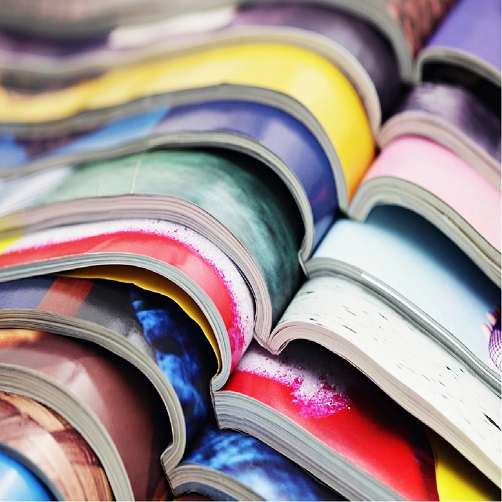
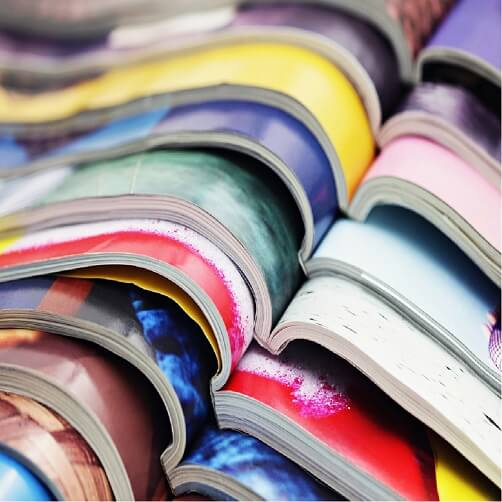
resize img

diff --git a/style.min.css b/style.min.css
@@ -1,1 +1,1 @@
-.d-bloc .navbar-toggle .icon-bar,body{background:#fff}.nav-center .navbar-brand img,body{margin:0}.nav-invert .navbar .nav,.nav>li{float:left}.scrollToTop,button{transition:.3s ease-in-out}body{padding:0;overflow-x:hidden;-webkit-font-smoothing:antialiased;-moz-osx-font-smoothing:grayscale}button{border:none;font-size:30px;background-color:#fff;float:right;margin-right:15px;margin-top:3px;outline:0!important}a:hover{text-decoration:none;cursor:pointer}#page-loading-blocs-notifaction{position:fixed;top:0;bottom:0;width:100%;z-index:100000;background:url("img/pageload-spinner.gif") center center no-repeat #fff}.bloc{width:100%;clear:both;background:50% 50%/cover no-repeat;padding:0 50px;-webkit-background-size:cover;-moz-background-size:cover;-o-background-size:cover;position:relative}.bloc-lg{padding:100px 50px}.bloc-md{padding:50px}.bloc-sm{padding:20px 50px}.bg-b-edge,.bg-bl-edge,.bg-br-edge,.bg-center,.bg-l-edge,.bg-r-edge,.bg-repeat,.bg-t-edge,.bg-tl-edge,.bg-tr-edge{-webkit-background-size:auto!important;-moz-background-size:auto!important;-o-background-size:auto!important;background-size:auto!important}.bg-repeat,.nav>li a:focus,.nav>li a:hover{background:0 0}.bg-t-edge{background:top no-repeat}.bloc-bg-texture::before{content:"";background-size:2px 2px;position:absolute;top:0;bottom:0;left:0;right:0}.texture-paper::before{background:url("img/texture-paper.webp") 0 0/280px 280px}.nav>li>.dropdown a,.navbar-toggle:hover{background:0 0!important}.b-parallax{background-attachment:fixed}.d-bloc{color:rgba(255,255,255,.7)}.d-bloc button:hover{color:rgba(255,255,255,.9)}.d-bloc .icon-round,.d-bloc .icon-rounded,.d-bloc .icon-semi-rounded-a,.d-bloc .icon-semi-rounded-b,.d-bloc .icon-square{border-color:rgba(255,255,255,.9)}.d-bloc .divider-h span{border-color:rgba(255,255,255,.2)}.d-bloc .a-btn,.d-bloc .navbar a,.d-bloc .navbar-brand,.d-bloc a .icon-lg,.d-bloc a .icon-md,.d-bloc a .icon-sm,.d-bloc a .icon-xl,.d-bloc h1 a,.d-bloc h2 a,.d-bloc h3 a,.d-bloc h4 a,.d-bloc h5 a,.d-bloc h6 a,.d-bloc p a{color:rgba(255,255,255,.6)}.d-bloc .a-btn:hover,.d-bloc .navbar a:hover,.d-bloc .navbar-brand:hover,.d-bloc a:hover .icon-lg,.d-bloc a:hover .icon-md,.d-bloc a:hover .icon-sm,.d-bloc a:hover .icon-xl,.d-bloc h1 a:hover,.d-bloc h2 a:hover,.d-bloc h3 a:hover,.d-bloc h4 a:hover,.d-bloc h5 a:hover,.d-bloc h6 a:hover,.d-bloc p a:hover{color:#fff}.d-bloc .btn-wire,.d-bloc .btn-wire:hover{color:#fff;border-color:#fff}.d-bloc .panel icon,.l-bloc .icon-round,.l-bloc .icon-rounded,.l-bloc .icon-semi-rounded-a,.l-bloc .icon-semi-rounded-b,.l-bloc .icon-square{border-color:rgba(0,0,0,.7)}.d-bloc .panel,.l-bloc{color:rgba(0,0,0,.5)}.d-bloc .panel button:hover,.l-bloc button:hover{color:rgba(0,0,0,.7)}.d-bloc .panel .divider-h span,.l-bloc .divider-h span{border-color:rgba(0,0,0,.1)}.d-bloc .panel .a-btn,.l-bloc .a-btn,.l-bloc .navbar a,.l-bloc .navbar-brand,.l-bloc .navbar-toggle .icon-bar,.l-bloc a .icon-lg,.l-bloc a .icon-md,.l-bloc a .icon-sm,.l-bloc a .icon-xl,.l-bloc h1 a,.l-bloc h2 a,.l-bloc h3 a,.l-bloc h4 a,.l-bloc h5 a,.l-bloc h6 a,.l-bloc p a{color:rgba(0,0,0,.6)}.d-bloc .panel .a-btn:hover,.l-bloc .a-btn:hover,.l-bloc .navbar a:hover,.l-bloc .navbar-brand:hover,.l-bloc a:hover .icon-lg,.l-bloc a:hover .icon-md,.l-bloc a:hover .icon-sm,.l-bloc a:hover .icon-xl,.l-bloc h1 a:hover,.l-bloc h2 a:hover,.l-bloc h3 a:hover,.l-bloc h4 a:hover,.l-bloc h5 a:hover,.l-bloc h6 a:hover,.l-bloc p a:hover{color:#000}.d-bloc .panel .btn-wire,.d-bloc .panel .btn-wire:hover,.l-bloc .btn-wire,.l-bloc .btn-wire:hover{color:rgba(0,0,0,.7);border-color:rgba(0,0,0,.3)}.voffset{margin-top:30px}.voffset-lg{margin-top:80px}.row-no-gutters{margin-right:0;margin-left:0}.row.row-no-gutters>[class*=" col-"],.row.row-no-gutters>[class^=col-]{padding-right:0;padding-left:0}#bloc-1-hero h1{font-size:32px}.navbar{margin-bottom:0;z-index:1}.navbar-brand{height:auto;padding:3px 15px;font-size:25px;font-weight:600;line-height:44px}.navbar-brand img{max-height:200px;margin:0 5px 0 0;display:inline}.navbar-brand img[src$=svg]{min-width:100px}.navbar .nav{padding-top:2px;margin-right:-16px;float:right;z-index:1}.nav>li{margin-top:4px;font-size:16px}.navbar-nav .open .dropdown-menu>li>a{text-align:inherit}.navbar-toggle{margin:10px 10px 0 0;border:0}.mg-lg,.mg-md{margin-top:10px}.navbar-toggle .icon-bar{background-color:rgba(0,0,0,.5);width:26px}.nav-invert .navbar-brand,.nav-invert .navbar-header{float:right;position:relative;z-index:2}@media (min-width:768px){.site-navigation{position:absolute;top:50%;right:20px;transform:translate(0,-50%);-webkit-transform:translateY(-50%)}.nav>li .dropdown-menu a,.nav>li .dropdown-menu a:hover{color:#484848}.nav-invert .site-navigation{left:0;right:0}.nav-center{text-align:center}.nav-center .navbar-header{width:100%}.nav-center .nav>li,.nav-center .navbar-brand,.nav-center .navbar-header{float:none;display:inline-block}.nav-center .site-navigation{position:relative;width:100%;right:0;margin-right:0;margin-top:20px}.nav-center.mini-nav .navbar-toggle{float:none;margin:10px auto 0}}.nav>li>.dropdown a{display:block;padding:14px 15px}nav .caret{margin:0 5px}.dropdown-menu .dropdown-menu{top:-8px;left:100%}.dropdown-menu .dropmenu-flow-right{top:100%;left:0;margin-left:-1px;border-top-left-radius:0;border-top-right-radius:0}.dropdown-menu .dropdown span{border:4px solid #000;border-top-color:transparent;border-right-color:transparent;border-bottom-color:transparent;margin:6px -5px 0 0!important;float:right}.mg-md{margin-bottom:20px}.mg-lg{margin-bottom:40px}.btn{margin:0 5px 5px 0}.btn.pull-right{margin:0 0 5px 5px}.btn-d,.btn-d:focus,.btn-d:hover{color:#fff;background:rgba(0,0,0,.3)}.close-lightbox,.lightbox-caption,.next-lightbox,.prev-lightbox{background:rgba(0,0,0,.5);position:absolute}.btn-rd{border-radius:40px}.btn-clean{border:1px solid rgba(0,0,0,.08);border-bottom-color:rgba(0,0,0,.1);text-shadow:0 1px 0 rgba(0,0,1,.1);box-shadow:0 1px 3px rgba(0,0,1,.25),inset 0 1px 0 0 rgba(255,255,255,.15)}.icon-md{font-size:30px!important}.icon-lg{font-size:60px!important}.sm-shadow{text-shadow:0 1px 2px rgba(0,0,0,.3)}.panel-sq,.panel-sq .panel-footer,.panel-sq .panel-heading{border-radius:0}.panel-rd{border-radius:30px}.panel-rd .panel-heading{border-radius:29px 29px 0 0}.panel-rd .panel-footer{border-radius:0 0 29px 29px}.form-control{border-color:rgba(0,0,0,.1);box-shadow:none}.scrollToTop{width:40px;height:40px;position:fixed;bottom:20px;right:20px;opacity:0;z-index:500}.scrollToTop span{margin-top:6px}.showScrollTop{font-size:14px;opacity:1}a[data-lightbox]{position:relative;display:block;text-align:center}a[data-lightbox]:hover::before{content:"+";font-family:HelveticaNeue-Light,"Helvetica Neue Light","Helvetica Neue",Helvetica,Arial;font-size:32px;width:50px;height:50px;margin-left:-25px;border-radius:50%;background:rgba(255,255,255,.6);color:#fff;font-weight:100;z-index:1;position:absolute;top:50%;transform:translateY(-50%);-webkit-transform:translateY(-50%)}a[data-lightbox]:hover img{opacity:.6;-webkit-animation-fill-mode:none;animation-fill-mode:none}#lightbox-modal{display:flex;align-items:center}.form-group,.voffset p{flex-basis:100%}#lightbox-modal .modal-dialog{width:90%;max-width:900px;margin:0 auto}#lightbox-modal .modal-dialog img{max-height:90vh;margin:0 auto}.lightbox-caption{padding:20px;color:#fff;left:15px;right:15px;bottom:5px}.close-lightbox{color:#fff;font-size:30px;top:20px;right:20px;z-index:20;border:none;line-height:30px;padding:0 9px 5px;opacity:.3}.close-lightbox:hover,.next-lightbox:hover,.prev-lightbox:hover{opacity:1;color:#fff}.next-lightbox,.prev-lightbox{font-size:20px;color:rgba(255,255,255,.9);transition:.2s ease-in-out;top:45%;z-index:1;opacity:.4}.next-lightbox{padding:6px 8px 1px 13px;right:25px}.prev-lightbox{padding:6px 13px 1px 10px;left:25px}.snapshot-lb .modal-body{padding-bottom:45px}.snapshot-lb .lightbox-caption{padding:0;color:rgba(0,0,0,.5);background:0 0}.btn,a,h1,h2,h3,h4,h5,h6,label,p{font-family:helvetica;font-weight:400;color:#575757!important}h1,h3,h4{color:#333!important}.cta-hero,.ltc-white,.white{color:#fff!important}.container{max-width:1000px}.hero-bloc-text{font-size:38px}.hero-bloc-text-sub{font-size:36px}.statement-bloc-text{line-height:26px;font-style:italic;font-size:20px;text-align:center;font-weight:lighter;max-width:520px;margin:auto}.cta-hero,h3{text-transform:uppercase;font-weight:700}p{font-size:12px}.tight-width-whitespace{max-width:600px;margin:auto}.h1{font-size:20px;font-family:"Open Sans"}.cta-hero{margin-top:22px;padding:12px 28px;font-size:16px}.social{max-width:400px;margin:auto}h2{font-size:22px;line-height:1.4em}h3{font-size:15px}.med-width-whitespace{max-width:800px;margin:auto;box-shadow:0 0 0 #000}.icons{margin-bottom:14px;margin-top:24px}.portfolio-thumb{margin-bottom:24px}.portfolio-row{margin-bottom:44px;margin-top:50px}.avatar{box-shadow:0 4px 9px rgba(0,0,0,.3)}.black-background{background-color:rgba(165,147,99,.7);padding:40px}.bold-link{font-weight:900;text-decoration:underline!important}.bgc-white{background-color:#fff}.bgc-dark-slate-blue{background-color:#364577}.bgc-atomic-tangerine{background-color:#a95f3d}.tc-white{color:#fffF!important}.btn-atomic-tangerine{background:#a95f3d;color:#fff!important}.btn-atomic-tangerine:hover{background:#c27956!important;color:#fff!important}.ltc-white:hover{color:#ccc!important}.ltc-atomic-tangerine{color:#f3976c!important}.ltc-atomic-tangerine:hover{color:#c27956!important}.icon-dark-slate-blue{color:#364577!important;border-color:#364577!important}.bg-dots-bg{background-image:url("img/dots-bg.png")}.bg-lines-h2-bg{background-image:url("img/lines-h2-bg.png")}.bg-banniere{background-image:url("img/agence-la-panthere.webp")}.bg-presentation{background-image:url("img/image-de-presentation.webp")}@media (max-width:1024px){.bloc{padding-left:20px;padding-right:20px}.bloc-tile-2.full-width-bloc .container,.bloc-tile-3.full-width-bloc .container,.bloc-tile-4.full-width-bloc .container,.bloc.full-width-bloc{padding-left:0;padding-right:0}}@media (max-width:992px) and (min-width:768px){.navbar .nav{max-width:80%}.nav-center.navbar .nav{max-width:100%}}@media only screen and (min-width:768px) and (max-width:1024px) and (orientation:landscape){.b-parallax{background-attachment:scroll}}@media only screen and (min-width:1024px) and (max-width:1366px) and (-webkit-min-device-pixel-ratio:1.5){.b-parallax{background-attachment:scroll}}@media (max-width:991px){.container{width:100%}.b-parallax{background-attachment:scroll}#hero-bloc,.page-container{overflow-x:hidden;position:relative}.bloc-group,.bloc-group .bloc{display:block;width:100%}.bloc-fill-screen .fill-bloc-bottom-edge,.bloc-fill-screen .fill-bloc-top-edge{padding:0 20px}}@media (max-width:400px){.bloc{padding-left:0;padding-right:0}}@media (max-width:767px){.page-container{overflow-x:hidden;position:relative}#disqus_thread,h1,h2,h3,h4,h5,h6,p{padding-left:10px!important;padding-right:10px!important}.b-parallax{background-attachment:scroll}.navbar .nav{padding-top:0;border-top:1px solid rgba(0,0,0,.2);float:none!important}.navbar.row{margin-left:0;margin-right:0}.site-navigation{position:inherit;transform:none;-webkit-transform:none;-ms-transform:none}.nav>li{margin-top:0;border-bottom:1px solid rgba(0,0,0,.1);background:rgba(0,0,0,.05);text-align:left;padding-left:15px;width:100%}.nav>li:hover{background:rgba(0,0,0,.08)}.dropdown .dropdown a .caret{float:none;margin:5px 0 0 10px!important;border:4px solid #000;border-bottom-color:transparent;border-right-color:transparent;border-left-color:transparent}#hero-bloc .navbar .nav{background:rgba(0,0,0,.8)}#hero-bloc .navbar .nav a{color:rgba(255,255,255,.6)}.hero{padding:50px 0}.hero-nav{left:-1px;right:-1px}.navbar-collapse{padding:0;overflow-x:hidden;-webkit-box-shadow:none;box-shadow:none}.navbar-brand img{max-height:40px;width:auto}.nav-invert .navbar-header{float:none;width:100%}.nav-invert .navbar-toggle{float:left;margin-left:10px}.bloc,.bloc-fill-screen .fill-bloc-bottom-edge,.bloc-fill-screen .fill-bloc-top-edge,.bloc-md,.bloc-sm,.bloc-tile-2 .container,.bloc-tile-3 .container,.bloc-tile-4 .container{padding-left:0;padding-right:0}.bloc-lg,.bloc-xl,.bloc-xxl{padding:40px 0}.a-block{padding:0 10px}.btn-dwn{display:none}.voffset{margin-top:5px}.voffset-md{margin-top:20px}.voffset-lg{margin-top:30px}form{padding:5px}.close-lightbox{display:inline-block}.blocsapp-device-iphone5{background-size:216px 425px;padding-top:60px;width:216px;height:425px}.blocsapp-device-iphone5 img{width:180px;height:320px}.bloc-mob-center-text{text-align:center}}header{display:flex;padding:0 20px}header img{width:100%;height:40px}.center-block{width:90px;height:90px}.voffset h2{font-size:25px;margin-top:50px}.voffset p{font-size:15px}#bloc-4-portfolio{display:flex;justify-content:center;margin:0 auto}#bloc-4-portfolio img{width:100%;height:280px;object-fit:cover}#bloc-4-portfolio a{width:100%;height:auto;margin:0 auto}#bloc-4-portfolio p{margin:20px 0}#bloc-4-portfolio h2{margin-bottom:50px}#form_1{display:flex;flex-wrap:wrap;flex-basis:100%;justify-content:center}#message{padding:20px}#form_1 button{width:90%;margin:20px 0;border-radius:20px}.col-sm-6 p{flex-basis:100%;font-size:15px;margin:0 auto}@media (min-width:767px){#bloc-4-portfolio>div{width:100%;display:flex;flex-wrap:wrap;max-width:1000px}.col-sm-6{width:50%}.col-sm-6 a{width:100%;height:auto}.col-sm-6 a img{width:100%;max-width:100%;height:10px}}
+.d-bloc .navbar-toggle .icon-bar,body{background:#fff}.nav-center .navbar-brand img,body{margin:0}.nav-invert .navbar .nav,.nav>li{float:left}.scrollToTop,button{transition:.3s ease-in-out}body{padding:0;overflow-x:hidden;-webkit-font-smoothing:antialiased;-moz-osx-font-smoothing:grayscale}button{border:none;font-size:30px;background-color:#fff;float:right;margin-right:15px;margin-top:3px;outline:0!important}a:hover{text-decoration:none;cursor:pointer}#page-loading-blocs-notifaction{position:fixed;top:0;bottom:0;width:100%;z-index:100000;background:url("img/pageload-spinner.gif") center center no-repeat #fff}.bloc{width:100%;clear:both;background:50% 50%/cover no-repeat;padding:0 50px;-webkit-background-size:cover;-moz-background-size:cover;-o-background-size:cover;position:relative}.bloc-lg{padding:100px 50px}.bloc-md{padding:50px}.bloc-sm{padding:20px 50px}.bg-b-edge,.bg-bl-edge,.bg-br-edge,.bg-center,.bg-l-edge,.bg-r-edge,.bg-repeat,.bg-t-edge,.bg-tl-edge,.bg-tr-edge{-webkit-background-size:auto!important;-moz-background-size:auto!important;-o-background-size:auto!important;background-size:auto!important}.bg-repeat,.nav>li a:focus,.nav>li a:hover{background:0 0}.bg-t-edge{background:top no-repeat}.bloc-bg-texture::before{content:"";background-size:2px 2px;position:absolute;top:0;bottom:0;left:0;right:0}.texture-paper::before{background:url("img/texture-paper.webp") 0 0/280px 280px}.nav>li>.dropdown a,.navbar-toggle:hover{background:0 0!important}.b-parallax{background-attachment:fixed}.d-bloc{color:rgba(255,255,255,.7)}.d-bloc button:hover{color:rgba(255,255,255,.9)}.d-bloc .icon-round,.d-bloc .icon-rounded,.d-bloc .icon-semi-rounded-a,.d-bloc .icon-semi-rounded-b,.d-bloc .icon-square{border-color:rgba(255,255,255,.9)}.d-bloc .divider-h span{border-color:rgba(255,255,255,.2)}.d-bloc .a-btn,.d-bloc .navbar a,.d-bloc .navbar-brand,.d-bloc a .icon-lg,.d-bloc a .icon-md,.d-bloc a .icon-sm,.d-bloc a .icon-xl,.d-bloc h1 a,.d-bloc h2 a,.d-bloc h3 a,.d-bloc h4 a,.d-bloc h5 a,.d-bloc h6 a,.d-bloc p a{color:rgba(255,255,255,.6)}.d-bloc .a-btn:hover,.d-bloc .navbar a:hover,.d-bloc .navbar-brand:hover,.d-bloc a:hover .icon-lg,.d-bloc a:hover .icon-md,.d-bloc a:hover .icon-sm,.d-bloc a:hover .icon-xl,.d-bloc h1 a:hover,.d-bloc h2 a:hover,.d-bloc h3 a:hover,.d-bloc h4 a:hover,.d-bloc h5 a:hover,.d-bloc h6 a:hover,.d-bloc p a:hover{color:#fff}.d-bloc .btn-wire,.d-bloc .btn-wire:hover{color:#fff;border-color:#fff}.d-bloc .panel icon,.l-bloc .icon-round,.l-bloc .icon-rounded,.l-bloc .icon-semi-rounded-a,.l-bloc .icon-semi-rounded-b,.l-bloc .icon-square{border-color:rgba(0,0,0,.7)}.d-bloc .panel,.l-bloc{color:rgba(0,0,0,.5)}.d-bloc .panel button:hover,.l-bloc button:hover{color:rgba(0,0,0,.7)}.d-bloc .panel .divider-h span,.l-bloc .divider-h span{border-color:rgba(0,0,0,.1)}.d-bloc .panel .a-btn,.l-bloc .a-btn,.l-bloc .navbar a,.l-bloc .navbar-brand,.l-bloc .navbar-toggle .icon-bar,.l-bloc a .icon-lg,.l-bloc a .icon-md,.l-bloc a .icon-sm,.l-bloc a .icon-xl,.l-bloc h1 a,.l-bloc h2 a,.l-bloc h3 a,.l-bloc h4 a,.l-bloc h5 a,.l-bloc h6 a,.l-bloc p a{color:rgba(0,0,0,.6)}.d-bloc .panel .a-btn:hover,.l-bloc .a-btn:hover,.l-bloc .navbar a:hover,.l-bloc .navbar-brand:hover,.l-bloc a:hover .icon-lg,.l-bloc a:hover .icon-md,.l-bloc a:hover .icon-sm,.l-bloc a:hover .icon-xl,.l-bloc h1 a:hover,.l-bloc h2 a:hover,.l-bloc h3 a:hover,.l-bloc h4 a:hover,.l-bloc h5 a:hover,.l-bloc h6 a:hover,.l-bloc p a:hover{color:#000}.d-bloc .panel .btn-wire,.d-bloc .panel .btn-wire:hover,.l-bloc .btn-wire,.l-bloc .btn-wire:hover{color:rgba(0,0,0,.7);border-color:rgba(0,0,0,.3)}.voffset{margin-top:30px}.voffset-lg{margin-top:80px}.row-no-gutters{margin-right:0;margin-left:0}.row.row-no-gutters>[class*=" col-"],.row.row-no-gutters>[class^=col-]{padding-right:0;padding-left:0}#bloc-1-hero h1{font-size:32px}.navbar{margin-bottom:0;z-index:1}.navbar-brand{height:auto;padding:3px 15px;font-size:25px;font-weight:600;line-height:44px}.navbar-brand img{max-height:200px;margin:0 5px 0 0;display:inline}.navbar-brand img[src$=svg]{min-width:100px}.navbar .nav{padding-top:2px;margin-right:-16px;float:right;z-index:1}.nav>li{margin-top:4px;font-size:16px}.navbar-nav .open .dropdown-menu>li>a{text-align:inherit}.navbar-toggle{margin:10px 10px 0 0;border:0}.mg-lg,.mg-md{margin-top:10px}.navbar-toggle .icon-bar{background-color:rgba(0,0,0,.5);width:26px}.nav-invert .navbar-brand,.nav-invert .navbar-header{float:right;position:relative;z-index:2}@media (min-width:768px){.site-navigation{position:absolute;top:50%;right:20px;transform:translate(0,-50%);-webkit-transform:translateY(-50%)}.nav>li .dropdown-menu a,.nav>li .dropdown-menu a:hover{color:#484848}.nav-invert .site-navigation{left:0;right:0}.nav-center{text-align:center}.nav-center .navbar-header{width:100%}.nav-center .nav>li,.nav-center .navbar-brand,.nav-center .navbar-header{float:none;display:inline-block}.nav-center .site-navigation{position:relative;width:100%;right:0;margin-right:0;margin-top:20px}.nav-center.mini-nav .navbar-toggle{float:none;margin:10px auto 0}}.nav>li>.dropdown a{display:block;padding:14px 15px}nav .caret{margin:0 5px}.dropdown-menu .dropdown-menu{top:-8px;left:100%}.dropdown-menu .dropmenu-flow-right{top:100%;left:0;margin-left:-1px;border-top-left-radius:0;border-top-right-radius:0}.dropdown-menu .dropdown span{border:4px solid #000;border-top-color:transparent;border-right-color:transparent;border-bottom-color:transparent;margin:6px -5px 0 0!important;float:right}.mg-md{margin-bottom:20px}.mg-lg{margin-bottom:40px}.btn{margin:0 5px 5px 0}.btn.pull-right{margin:0 0 5px 5px}.btn-d,.btn-d:focus,.btn-d:hover{color:#fff;background:rgba(0,0,0,.3)}.close-lightbox,.lightbox-caption,.next-lightbox,.prev-lightbox{background:rgba(0,0,0,.5);position:absolute}.btn-rd{border-radius:40px}.btn-clean{border:1px solid rgba(0,0,0,.08);border-bottom-color:rgba(0,0,0,.1);text-shadow:0 1px 0 rgba(0,0,1,.1);box-shadow:0 1px 3px rgba(0,0,1,.25),inset 0 1px 0 0 rgba(255,255,255,.15)}.icon-md{font-size:30px!important}.icon-lg{font-size:60px!important}.sm-shadow{text-shadow:0 1px 2px rgba(0,0,0,.3)}.panel-sq,.panel-sq .panel-footer,.panel-sq .panel-heading{border-radius:0}.panel-rd{border-radius:30px}.panel-rd .panel-heading{border-radius:29px 29px 0 0}.panel-rd .panel-footer{border-radius:0 0 29px 29px}.form-control{border-color:rgba(0,0,0,.1);box-shadow:none}.scrollToTop{width:40px;height:40px;position:fixed;bottom:20px;right:20px;opacity:0;z-index:500}.scrollToTop span{margin-top:6px}.showScrollTop{font-size:14px;opacity:1}a[data-lightbox]{position:relative;display:block;text-align:center}a[data-lightbox]:hover::before{content:"+";font-family:HelveticaNeue-Light,"Helvetica Neue Light","Helvetica Neue",Helvetica,Arial;font-size:32px;width:50px;height:50px;margin-left:-25px;border-radius:50%;background:rgba(255,255,255,.6);color:#fff;font-weight:100;z-index:1;position:absolute;top:50%;transform:translateY(-50%);-webkit-transform:translateY(-50%)}a[data-lightbox]:hover img{opacity:.6;-webkit-animation-fill-mode:none;animation-fill-mode:none}#lightbox-modal{display:flex;align-items:center}.form-group,.voffset p{flex-basis:100%}#lightbox-modal .modal-dialog{width:90%;max-width:900px;margin:0 auto}#lightbox-modal .modal-dialog img{max-height:90vh;margin:0 auto}.lightbox-caption{padding:20px;color:#fff;left:15px;right:15px;bottom:5px}.close-lightbox{color:#fff;font-size:30px;top:20px;right:20px;z-index:20;border:none;line-height:30px;padding:0 9px 5px;opacity:.3}.close-lightbox:hover,.next-lightbox:hover,.prev-lightbox:hover{opacity:1;color:#fff}.next-lightbox,.prev-lightbox{font-size:20px;color:rgba(255,255,255,.9);transition:.2s ease-in-out;top:45%;z-index:1;opacity:.4}.next-lightbox{padding:6px 8px 1px 13px;right:25px}.prev-lightbox{padding:6px 13px 1px 10px;left:25px}.snapshot-lb .modal-body{padding-bottom:45px}.snapshot-lb .lightbox-caption{padding:0;color:rgba(0,0,0,.5);background:0 0}.btn,a,h1,h2,h3,h4,h5,h6,label,p{font-family:helvetica;font-weight:400;color:#575757!important}h1,h3,h4{color:#333!important}.cta-hero,.ltc-white,.white{color:#fff!important}.container{max-width:1000px}.hero-bloc-text{font-size:38px}.hero-bloc-text-sub{font-size:36px}.statement-bloc-text{line-height:26px;font-style:italic;font-size:20px;text-align:center;font-weight:lighter;max-width:520px;margin:auto}.cta-hero,h3{text-transform:uppercase;font-weight:700}p{font-size:12px}.tight-width-whitespace{max-width:600px;margin:auto}.h1{font-size:20px;font-family:"Open Sans"}.cta-hero{margin-top:22px;padding:12px 28px;font-size:16px}.social{max-width:400px;margin:auto}h2{font-size:22px;line-height:1.4em}h3{font-size:15px}.med-width-whitespace{max-width:800px;margin:auto;box-shadow:0 0 0 #000}.icons{margin-bottom:14px;margin-top:24px}.portfolio-thumb{margin-bottom:24px}.portfolio-row{margin-bottom:44px;margin-top:50px}.avatar{box-shadow:0 4px 9px rgba(0,0,0,.3)}.black-background{background-color:rgba(165,147,99,.7);padding:40px}.bold-link{font-weight:900;text-decoration:underline!important}.bgc-white{background-color:#fff}.bgc-dark-slate-blue{background-color:#364577}.bgc-atomic-tangerine{background-color:#a95f3d}.tc-white{color:#fffF!important}.btn-atomic-tangerine{background:#a95f3d;color:#fff!important}.btn-atomic-tangerine:hover{background:#c27956!important;color:#fff!important}.ltc-white:hover{color:#ccc!important}.ltc-atomic-tangerine{color:#f3976c!important}.ltc-atomic-tangerine:hover{color:#c27956!important}.icon-dark-slate-blue{color:#364577!important;border-color:#364577!important}.bg-dots-bg{background-image:url("img/dots-bg.png")}.bg-lines-h2-bg{background-image:url("img/lines-h2-bg.png")}.bg-banniere{background-image:url("img/agence-la-panthere.webp")}.bg-presentation{background-image:url("img/image-de-presentation.webp")}@media (max-width:1024px){.bloc{padding-left:20px;padding-right:20px}.bloc-tile-2.full-width-bloc .container,.bloc-tile-3.full-width-bloc .container,.bloc-tile-4.full-width-bloc .container,.bloc.full-width-bloc{padding-left:0;padding-right:0}}@media (max-width:992px) and (min-width:768px){.navbar .nav{max-width:80%}.nav-center.navbar .nav{max-width:100%}}@media only screen and (min-width:768px) and (max-width:1024px) and (orientation:landscape){.b-parallax{background-attachment:scroll}}@media only screen and (min-width:1024px) and (max-width:1366px) and (-webkit-min-device-pixel-ratio:1.5){.b-parallax{background-attachment:scroll}}@media (max-width:991px){.container{width:100%}.b-parallax{background-attachment:scroll}#hero-bloc,.page-container{overflow-x:hidden;position:relative}.bloc-group,.bloc-group .bloc{display:block;width:100%}.bloc-fill-screen .fill-bloc-bottom-edge,.bloc-fill-screen .fill-bloc-top-edge{padding:0 20px}}@media (max-width:400px){.bloc{padding-left:0;padding-right:0}}@media (max-width:767px){.page-container{overflow-x:hidden;position:relative}#disqus_thread,h1,h2,h3,h4,h5,h6,p{padding-left:10px!important;padding-right:10px!important}.b-parallax{background-attachment:scroll}.navbar .nav{padding-top:0;border-top:1px solid rgba(0,0,0,.2);float:none!important}.navbar.row{margin-left:0;margin-right:0}.site-navigation{position:inherit;transform:none;-webkit-transform:none;-ms-transform:none}.nav>li{margin-top:0;border-bottom:1px solid rgba(0,0,0,.1);background:rgba(0,0,0,.05);text-align:left;padding-left:15px;width:100%}.nav>li:hover{background:rgba(0,0,0,.08)}.dropdown .dropdown a .caret{float:none;margin:5px 0 0 10px!important;border:4px solid #000;border-bottom-color:transparent;border-right-color:transparent;border-left-color:transparent}#hero-bloc .navbar .nav{background:rgba(0,0,0,.8)}#hero-bloc .navbar .nav a{color:rgba(255,255,255,.6)}.hero{padding:50px 0}.hero-nav{left:-1px;right:-1px}.navbar-collapse{padding:0;overflow-x:hidden;-webkit-box-shadow:none;box-shadow:none}.navbar-brand img{max-height:40px;width:auto}.nav-invert .navbar-header{float:none;width:100%}.nav-invert .navbar-toggle{float:left;margin-left:10px}.bloc,.bloc-fill-screen .fill-bloc-bottom-edge,.bloc-fill-screen .fill-bloc-top-edge,.bloc-md,.bloc-sm,.bloc-tile-2 .container,.bloc-tile-3 .container,.bloc-tile-4 .container{padding-left:0;padding-right:0}.bloc-lg,.bloc-xl,.bloc-xxl{padding:40px 0}.a-block{padding:0 10px}.btn-dwn{display:none}.voffset{margin-top:5px}.voffset-md{margin-top:20px}.voffset-lg{margin-top:30px}form{padding:5px}.close-lightbox{display:inline-block}.blocsapp-device-iphone5{background-size:216px 425px;padding-top:60px;width:216px;height:425px}.blocsapp-device-iphone5 img{width:180px;height:320px}.bloc-mob-center-text{text-align:center}}header img{width:100%;height:40px}#bloc-1-hero{width:100%;height:auto}.center-block{width:90px;height:90px}.voffset h2{font-size:25px;margin-top:50px}.voffset p{font-size:15px}#bloc-4-portfolio{display:flex;justify-content:center;margin:0 auto}#bloc-4-portfolio img{width:100%;height:300px;object-fit:cover}#bloc-4-portfolio a{width:100%;height:auto;margin:0 auto}#bloc-4-portfolio p{margin:20px 0}#bloc-4-portfolio h2{margin-bottom:50px}#form_1{display:flex;flex-wrap:wrap;flex-basis:100%;justify-content:center}#message{padding:20px}#form_1 button{width:90%;margin:20px 0;border-radius:20px}.col-sm-6 p{flex-basis:100%;font-size:15px;margin:0 auto}@media (min-width:767px){#bloc-4-portfolio>div{width:100%;display:flex;flex-wrap:wrap;max-width:1000px}.col-sm-6{width:50%}.col-sm-6 a,.col-sm-6 a img{width:100%;height:auto}}

diff --git a/style.css b/style.css
@@ -728,6 +728,7 @@ h4 {
     .b-parallax {
         background-attachment: scroll;
     }
+   
 }
 @media only screen and (min-width: 1024px) and (max-width: 1366px) and (-webkit-min-device-pixel-ratio: 1.5) {
     .b-parallax {
@@ -906,22 +907,24 @@ h4 {
     .bloc-mob-center-text {
         text-align: center;
     }
+
 }
 
 
 
 /* Index page */
 
-header{
-    display: flex;
-    padding: 0px 20px;
-}
+
 header img{
     
     width: 100%;
     height: 40px;
 }
 
+#bloc-1-hero{
+    width: 100%;
+    height: auto;
+}
 /* retouche image panthere */
 .center-block{
     width: 90px;
@@ -948,7 +951,7 @@ header img{
 }
 #bloc-4-portfolio img{
     width: 100%;
-    height: 280px;
+    height: 300px;
     object-fit: cover;
 }
 #bloc-4-portfolio a{
@@ -996,32 +999,20 @@ header img{
 /* nouvelle media queries */
 @media (min-width: 767px){
     #bloc-4-portfolio>div{
-        
         width: 100%;
         display: flex;
         flex-wrap: wrap;
         max-width: 1000px;
-        
     }
-   
     .col-sm-6{
-   
-   
-   width: 50%;
-   
-  
-   
-   
+        width: 50%;
    }
-   .col-sm-6 a{
-   
-    width: 100%;
-    height: auto;
+    .col-sm-6 a{
+        width: 100%;
+        height: auto;
    }
-   .col-sm-6 a img{
-    width: 100%;
-    max-width: 100%;
-    height: 10px;
-   }
- 
+    .col-sm-6 a img{
+        width: 100%;
+        height: auto;
+    }
 }

diff --git a/index.html b/index.html
@@ -6,7 +6,7 @@
     <meta name="viewport" content="width=device-width, initial-scale=1.0, viewport-fit=cover">
     <link rel="shortcut icon" type="image/png" href="favicon.jpg">
 	
-	<link rel="stylesheet" type="text/css" href="./css/bootstrap.min.css">
+	<link  rel="stylesheet"type="text/css" href="./css/bootstrap.min.css">
 	<link rel="stylesheet" type="text/css" href="style.min.css">
     <link rel="stylesheet" type="text/css" href="./css/font-awesome.min.css">
 	<link rel="stylesheet" type="text/css" href="./css/et-line.min.css">
@@ -30,7 +30,7 @@
 			<nav class="navbar-row">
 				<div class="navbar-header">
 					<a class="navbar-brand" href="index.html"><img src="img/agence-la-panthere-monochrome.svg" alt="image du logo de l'entreprise"></a>
-					<button id="nav-toggle" type="button" class="ui-navbar-toggle navbar-toggle" data-toggle="collapse" data-target=".navbar-1">
+					<button title="Menu" id="nav-toggle" type="button" class="ui-navbar-toggle navbar-toggle" data-toggle="collapse" data-target=".navbar-1">
 						<span class="sr-only">Toggle navigation</span>
 						<span class="icon-bar"></span>
 						<span class="icon-bar"></span>
